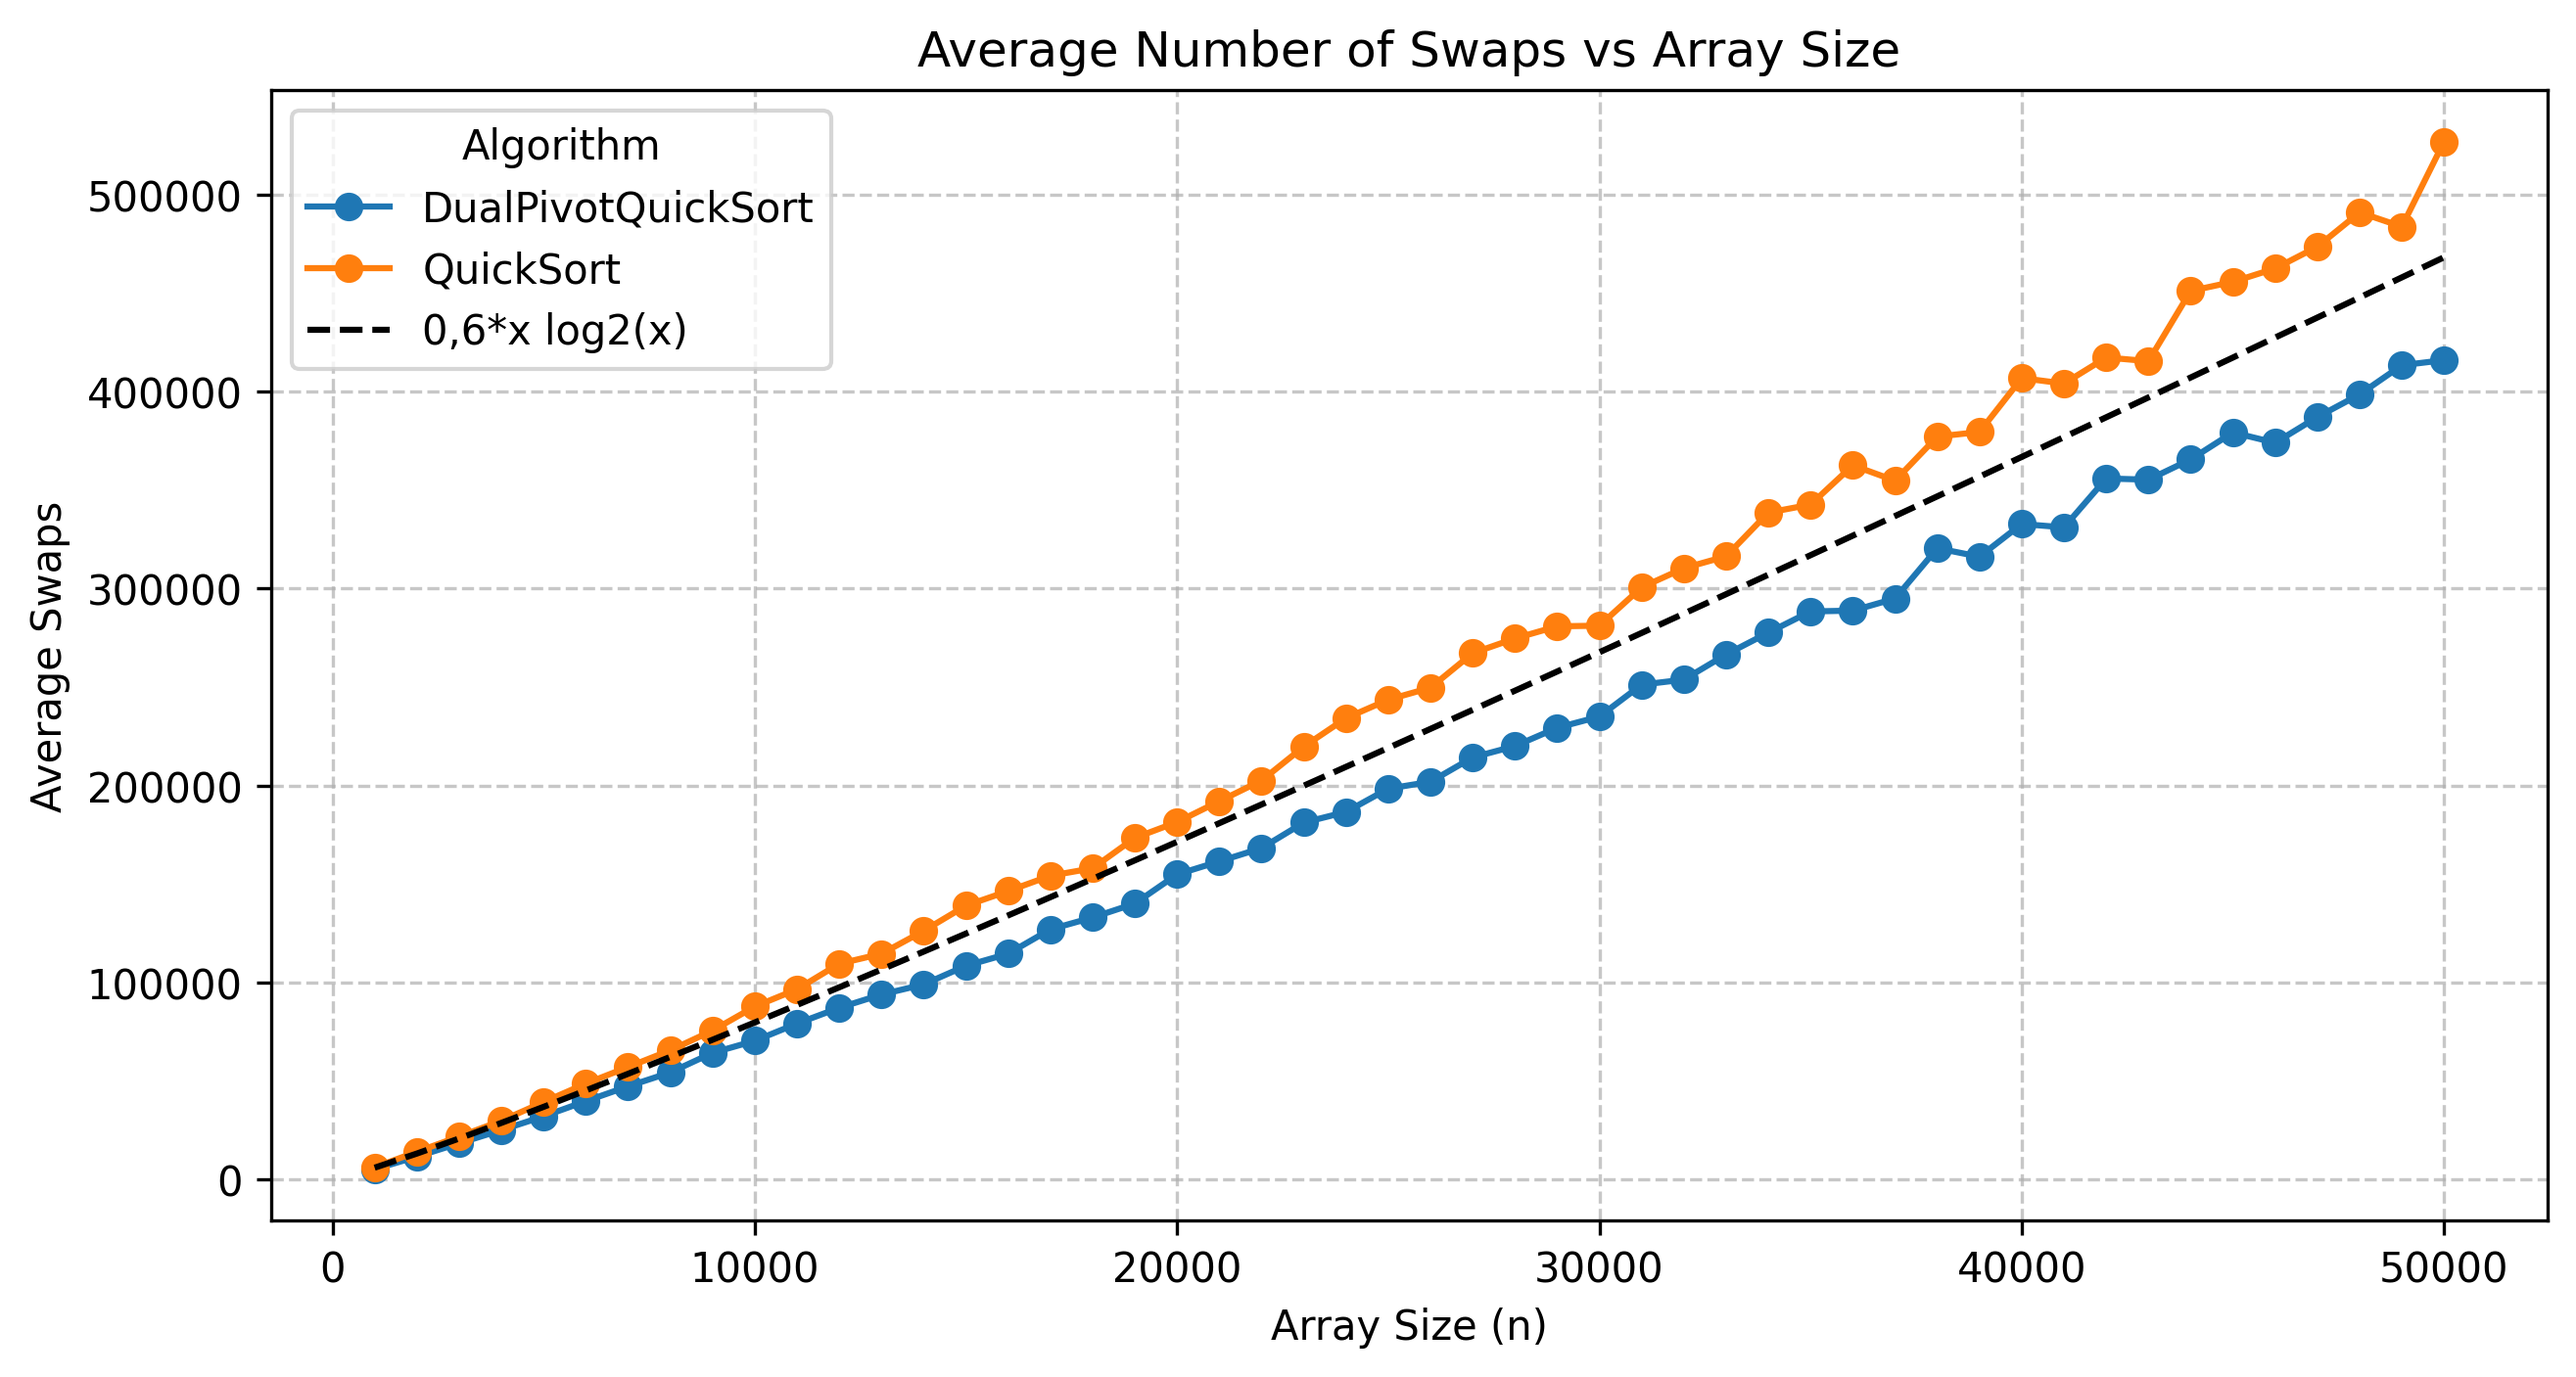
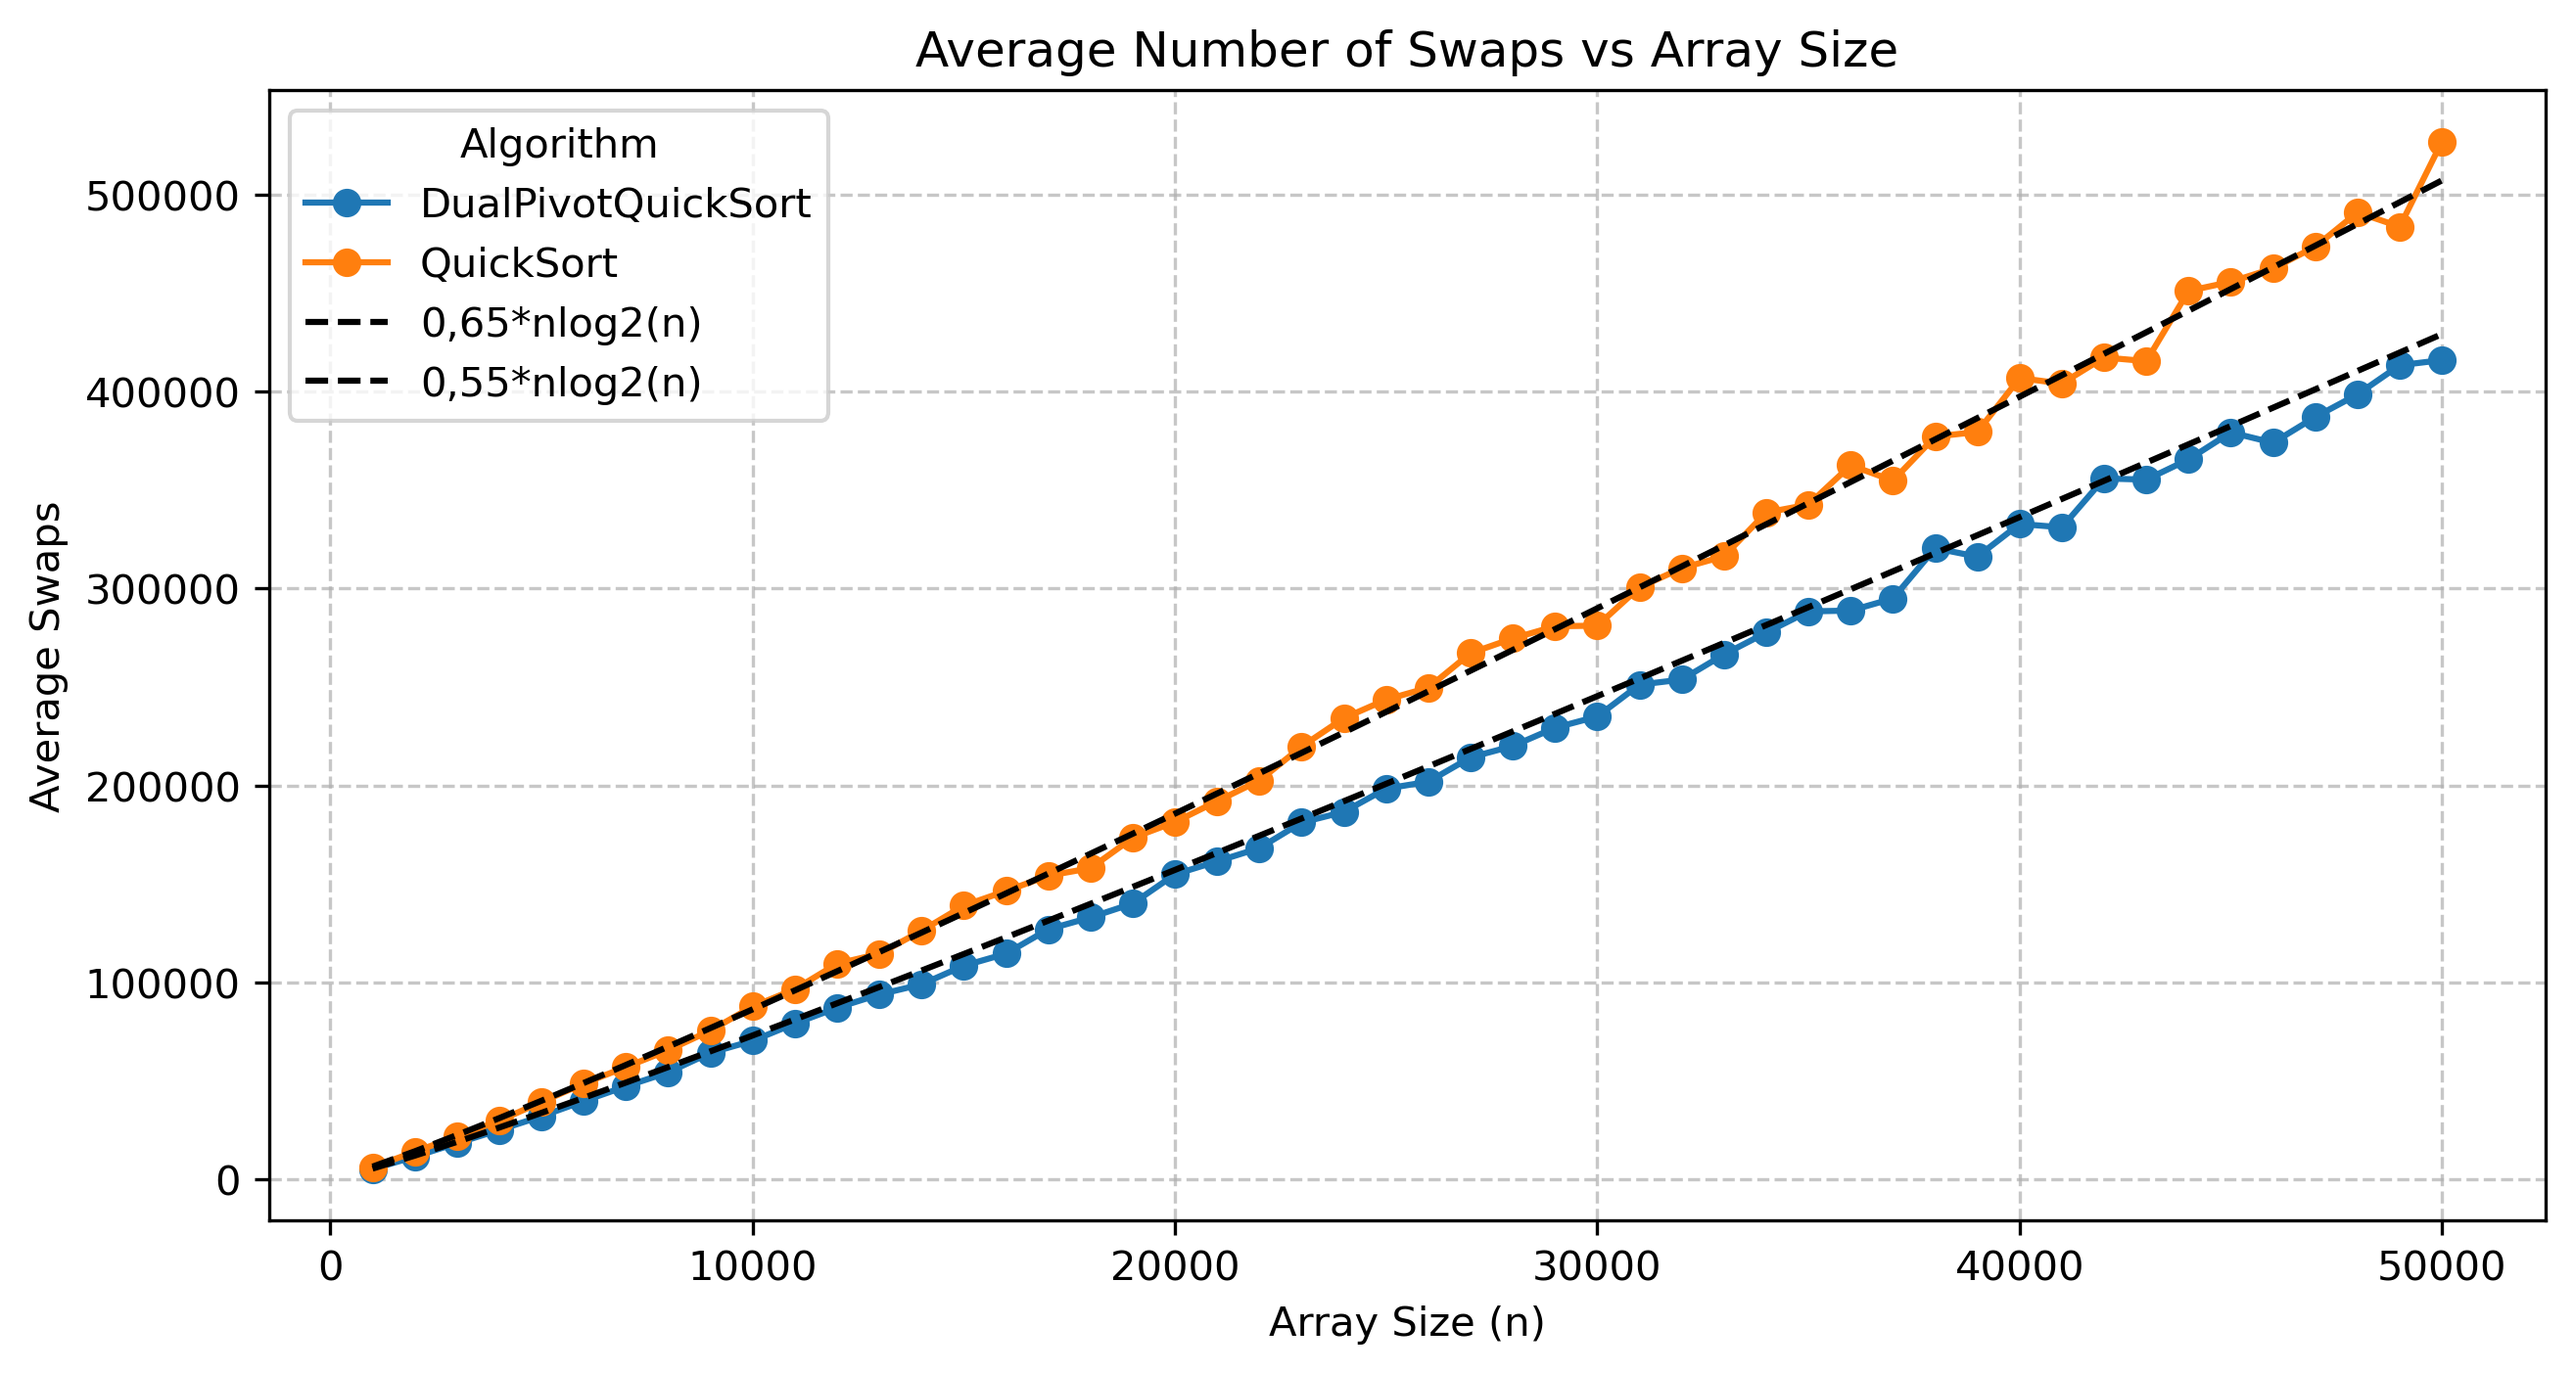
Done L2 algorytmy

diff --git a/mw1/L2/WykresZ2.py b/mw1/L2/WykresZ2.py
@@ -1,13 +1,13 @@
 import pandas as pd
 import numpy as np
 import matplotlib.pyplot as plt
-import seaborn as sns
+#import seaborn as sns
 
-k=100
+k=1
 
 # Load the data from CSV
-#df = pd.read_csv("resultsQSK"+str(k)+".csv")
-df = pd.read_csv("plots/Z3/results/results.csv")
+df = pd.read_csv("plots/HighN/results/results50K"+str(k)+".csv")
+#df = pd.read_csv("plots/QS/results/results.csv")
 
 
 # Ensure correct data types
@@ -29,10 +29,15 @@ def plot_metric(metric, title, ylabel, filename):
 
     # Compute x log2(x) for the given x values
     x_values = np.array(sorted(df_avg["Array Size"].unique()))
-    y_values = 0.6*x_values * np.log2(x_values)
+    y_values = 0.65*x_values * np.log2(x_values)
+    #y_values = 0.25*(x_values*x_values)
+
+    #y_values2= 0.55*x_values * np.log2(x_values)
 
     # Plot x log2(x) as a reference
-    plt.plot(x_values, y_values, linestyle="--", color="black", label="0,6*x log2(x)")
+    plt.plot(x_values, y_values, linestyle="--", color="black", label="0,65*nlog2(n)")
+
+    #plt.plot(x_values, y_values2, linestyle="--", color="black", label="0,55*nlog2(n)")
 
     plt.title(title)
     plt.xlabel("Array Size (n)")
@@ -71,11 +76,11 @@ def plot_metric2(metric, title, ylabel, filename):
     plt.close()
 
 # Generate and save the required plots
-plot_metric2("Comparisons", "Average Number of Comparisons vs Array Size", "Average Comparisons", "plots/Z3/comparisons_avg"+str(k)+".png")
-plot_metric2("Swaps", "Average Number of Swaps vs Array Size", "Average Swaps", "plots/Z3/swaps_avg"+str(k)+".png")
+#plot_metric("Comparisons", "Average Number of Comparisons vs Array Size", "Average Comparisons", "plots/HighN/comparisons_avg50K"+str(k)+".png")
+plot_metric("Swaps", "Average Number of Swaps vs Array Size", "Average Swaps", "plots/HighN/swaps_avg50K"+str(k)+".png")
 df_avg["Comparisons per n"] = df_avg["Comparisons"] / df_avg["Array Size"]
 df_avg["Swaps per n"] = df_avg["Swaps"] / df_avg["Array Size"]
-plot_metric2("Comparisons per n", "Comparisons per n", "Comparisons / n", "plots/Z3/comparisons_per_n"+str(k)+".png")
-plot_metric2("Swaps per n", "Swaps per n", "Swaps / n", "plots/Z3/swaps_per_n"+str(k)+".png")
+plot_metric2("Comparisons per n", "Comparisons per n", "Comparisons / n", "plots/HighN/comparisons_per_n50K"+str(k)+".png")
+plot_metric2("Swaps per n", "Swaps per n", "Swaps / n", "plots/HighN/swaps_per_n50K"+str(k)+".png")
 
 print("Plots saved: comparisons_avg.png, swaps_avg.png, comparisons_per_n.png, swaps_per_n.png")
